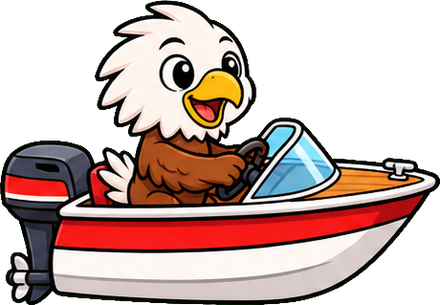
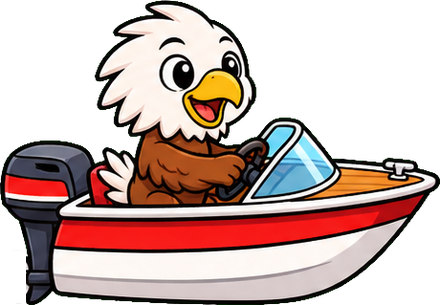
Mathe-Erlebnisse: Schiffsschraube am Boot dreht sich (bei allen Tieren), keine Wassertropfen mehr am Level-Ende

Changed region(s): [[0.0, 0.8262, 0.0591, 1.0]]

diff --git a/spiele/mathe-wanderung/welten.js b/spiele/mathe-wanderung/welten.js
@@ -259,7 +259,7 @@ WELTEN.aadorf = {
 
 /* ---------- Boot zur Insel (fährt nach hinten auf den Strand zu, wird kleiner) ---------- */
 WELTEN.boot = {
-  name: 'Bootsfahrt', art: 'fahren', fahrzeug: 'boot', feier: 'wasser',
+  name: 'Bootsfahrt', art: 'fahren', fahrzeug: 'boot',
   bild: 'bilder/welten/boot.jpg', himmelOben: '#1e88e5',
   wege: Array.from({ length: STUFEN + 1 }, (_, i) => { const t = i / STUFEN; return [r1(380 + 720 * t), r1(470 - 262 * Math.pow(t, 1.15)), 0, r1(1 - 0.47 * t)]; }),
   hinten() {
@@ -425,6 +425,8 @@ WELTEN.spielautomat = {
 const teil = (datei, x, y, b, h, klasse = '') => `<img class="teil-bild ${klasse}" src="${TEILE}${datei}" alt="" style="left:${r1(x)}px;top:${r1(y)}px;width:${r1(b)}px;height:${r1(h)}px">`;
 /** Fahrzeug mit Tier als ein Bild (bilder/fahrzeuge/<art>-<tier>.png), unten bündig */
 const FAHRZEUGE = 'bilder/fahrzeuge/';
+/* Lage der Schiffsschraube im Bootsbild (Bild-Pixel, 440 breit): x, y, Breite, Höhe */
+const BOOT_SCHRAUBE = {"baer":[0,259,26,57],"loewe":[0,263,26,61],"tiger":[0,253,26,61],"elefant":[0,249,26,55],"fuchs":[0,255,26,55],"wolf":[0,255,26,54],"adler":[0,252,26,51],"hai":[0,247,26,51],"erdmaennchen":[0,248,26,51]};
 const fahrt = (art, tier, b, x = 0, klasse = '') => `<img class="teil-bild fahrt ${klasse}" src="${FAHRZEUGE}${art}-${tier}.png" alt="" style="left:${r1(x)}px;bottom:0;width:${r1(b)}px;height:auto">`;
 function figur(tier, b, h, x = 0, y = 0) {
   return `<img class="tier-figur" src="${FIGUREN}${tier}-stehen.png" alt="" style="left:${x}px;top:${y}px;width:${b}px;height:${h}px">`;
@@ -436,8 +438,9 @@ function akteur(welt, tier) {
     return { b, h, haken: 118, html: fahrt('buggy', tier, b) };
   }
   if (art === 'boot') {         // Tier sitzt am Steuer (ein Bild pro Tier, ChatGPT, 440 breit)
-    const b = 300, h = 222;
-    return { b, h, haken: 150, html: fahrt('boot', tier, b) };
+    const b = 300, h = 222, k = b / 440, [sx, sy, sb, sh] = BOOT_SCHRAUBE[tier] || [0, 0, 0, 0];
+    // die Schiffsschraube am Aussenborder ist ein eigenes Bildstück und dreht sich
+    return { b, h, haken: 150, html: (sb ? `<img class="teil-bild propeller" src="${FAHRZEUGE}boot-${tier}-schraube.png" alt="" style="left:${r1(sx * k)}px;top:${r1(sy * k)}px;width:${r1(sb * k)}px;height:${r1(sh * k)}px">` : '') + fahrt('boot', tier, b) };
   }
   if (art === 'schlitten') {    // Tier sitzt mit Schal auf dem Schlitten (ein Bild pro Tier, ChatGPT, 420 breit)
     const b = 250, h = 266;
